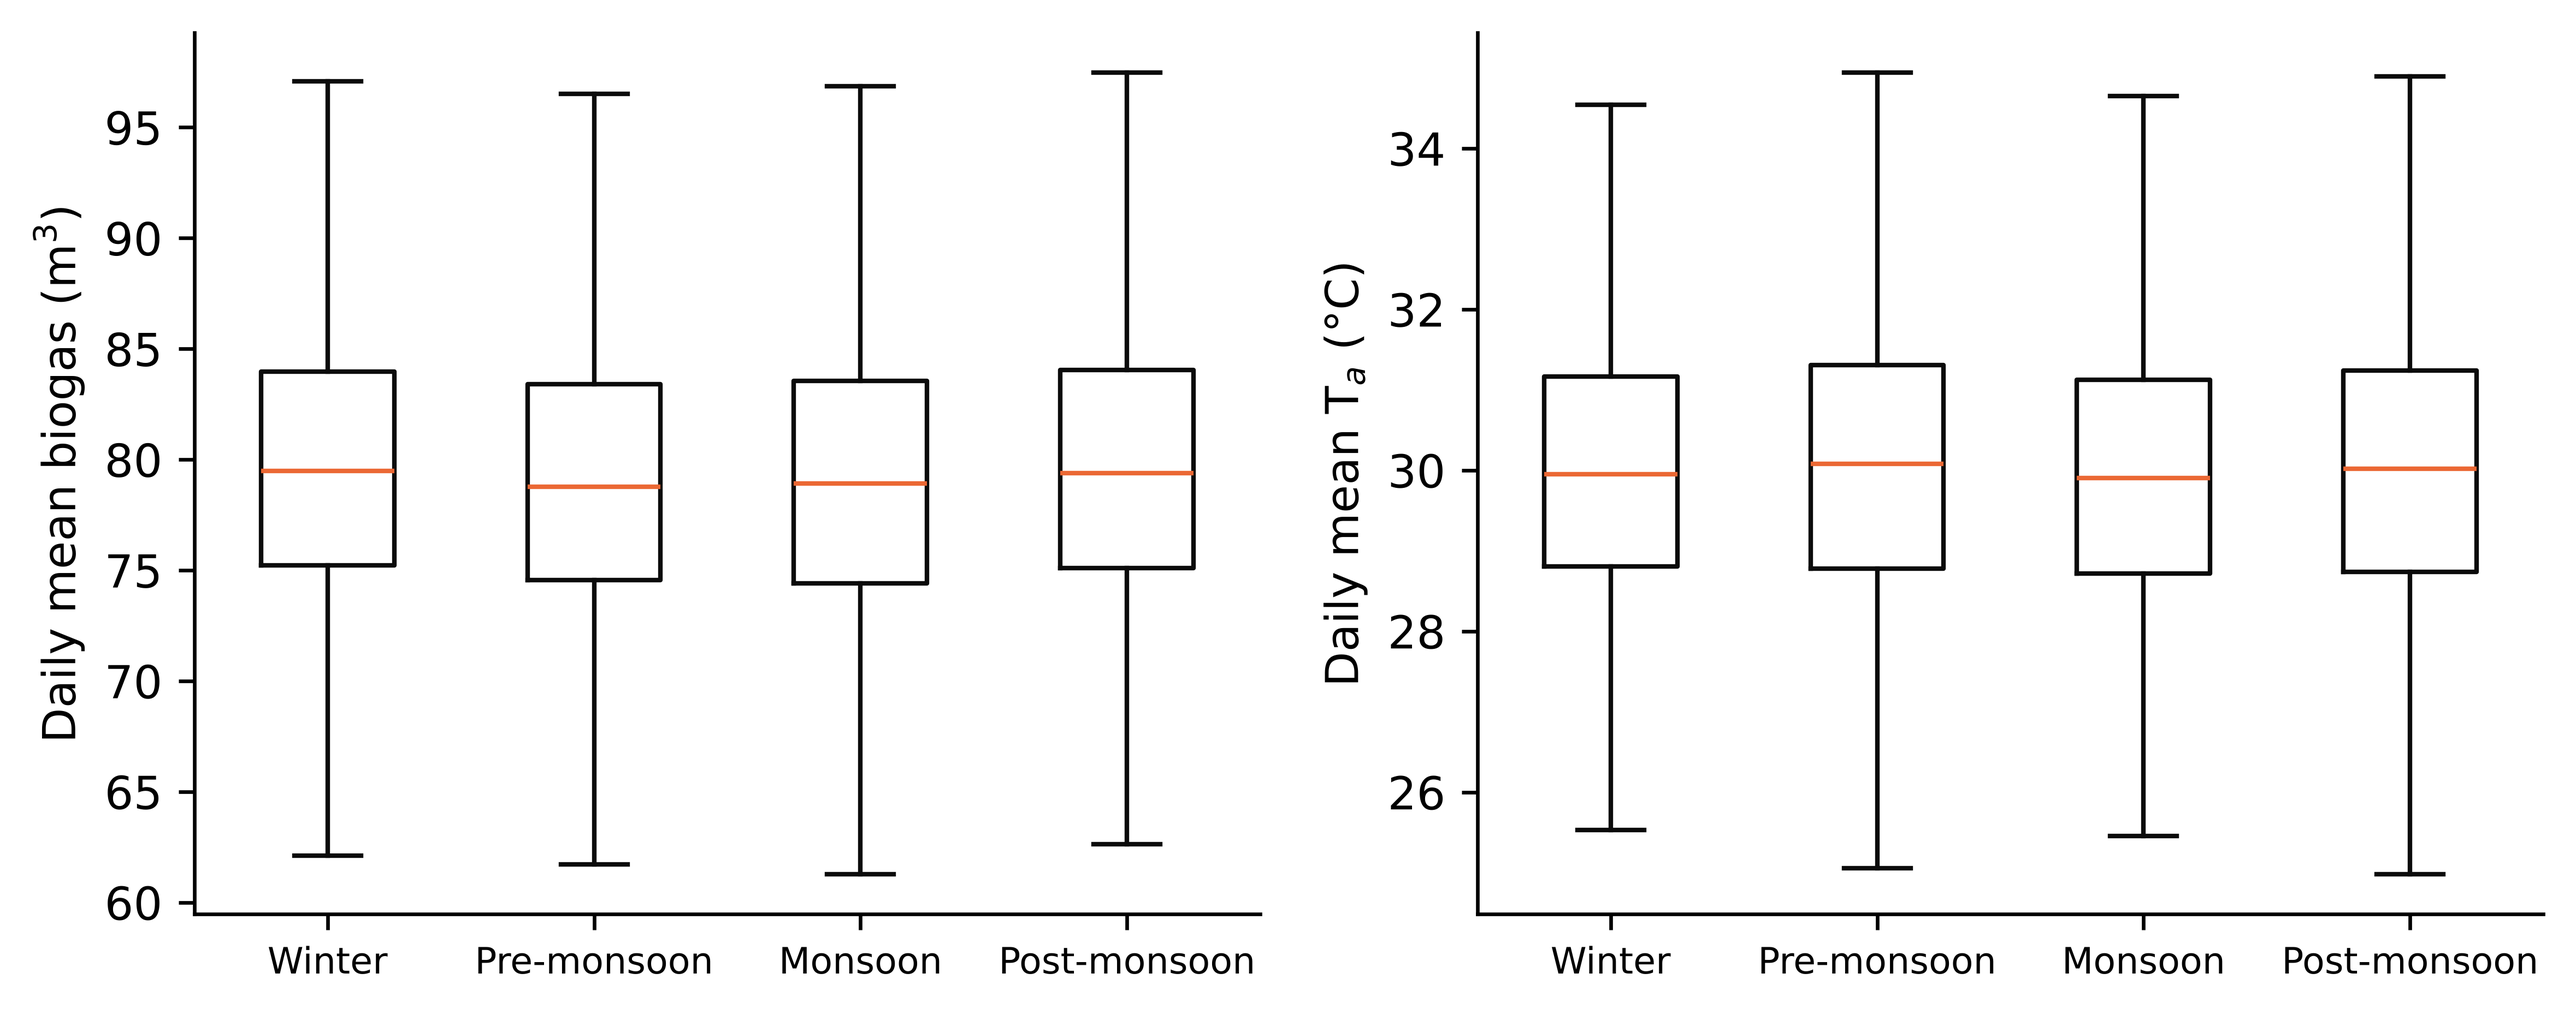
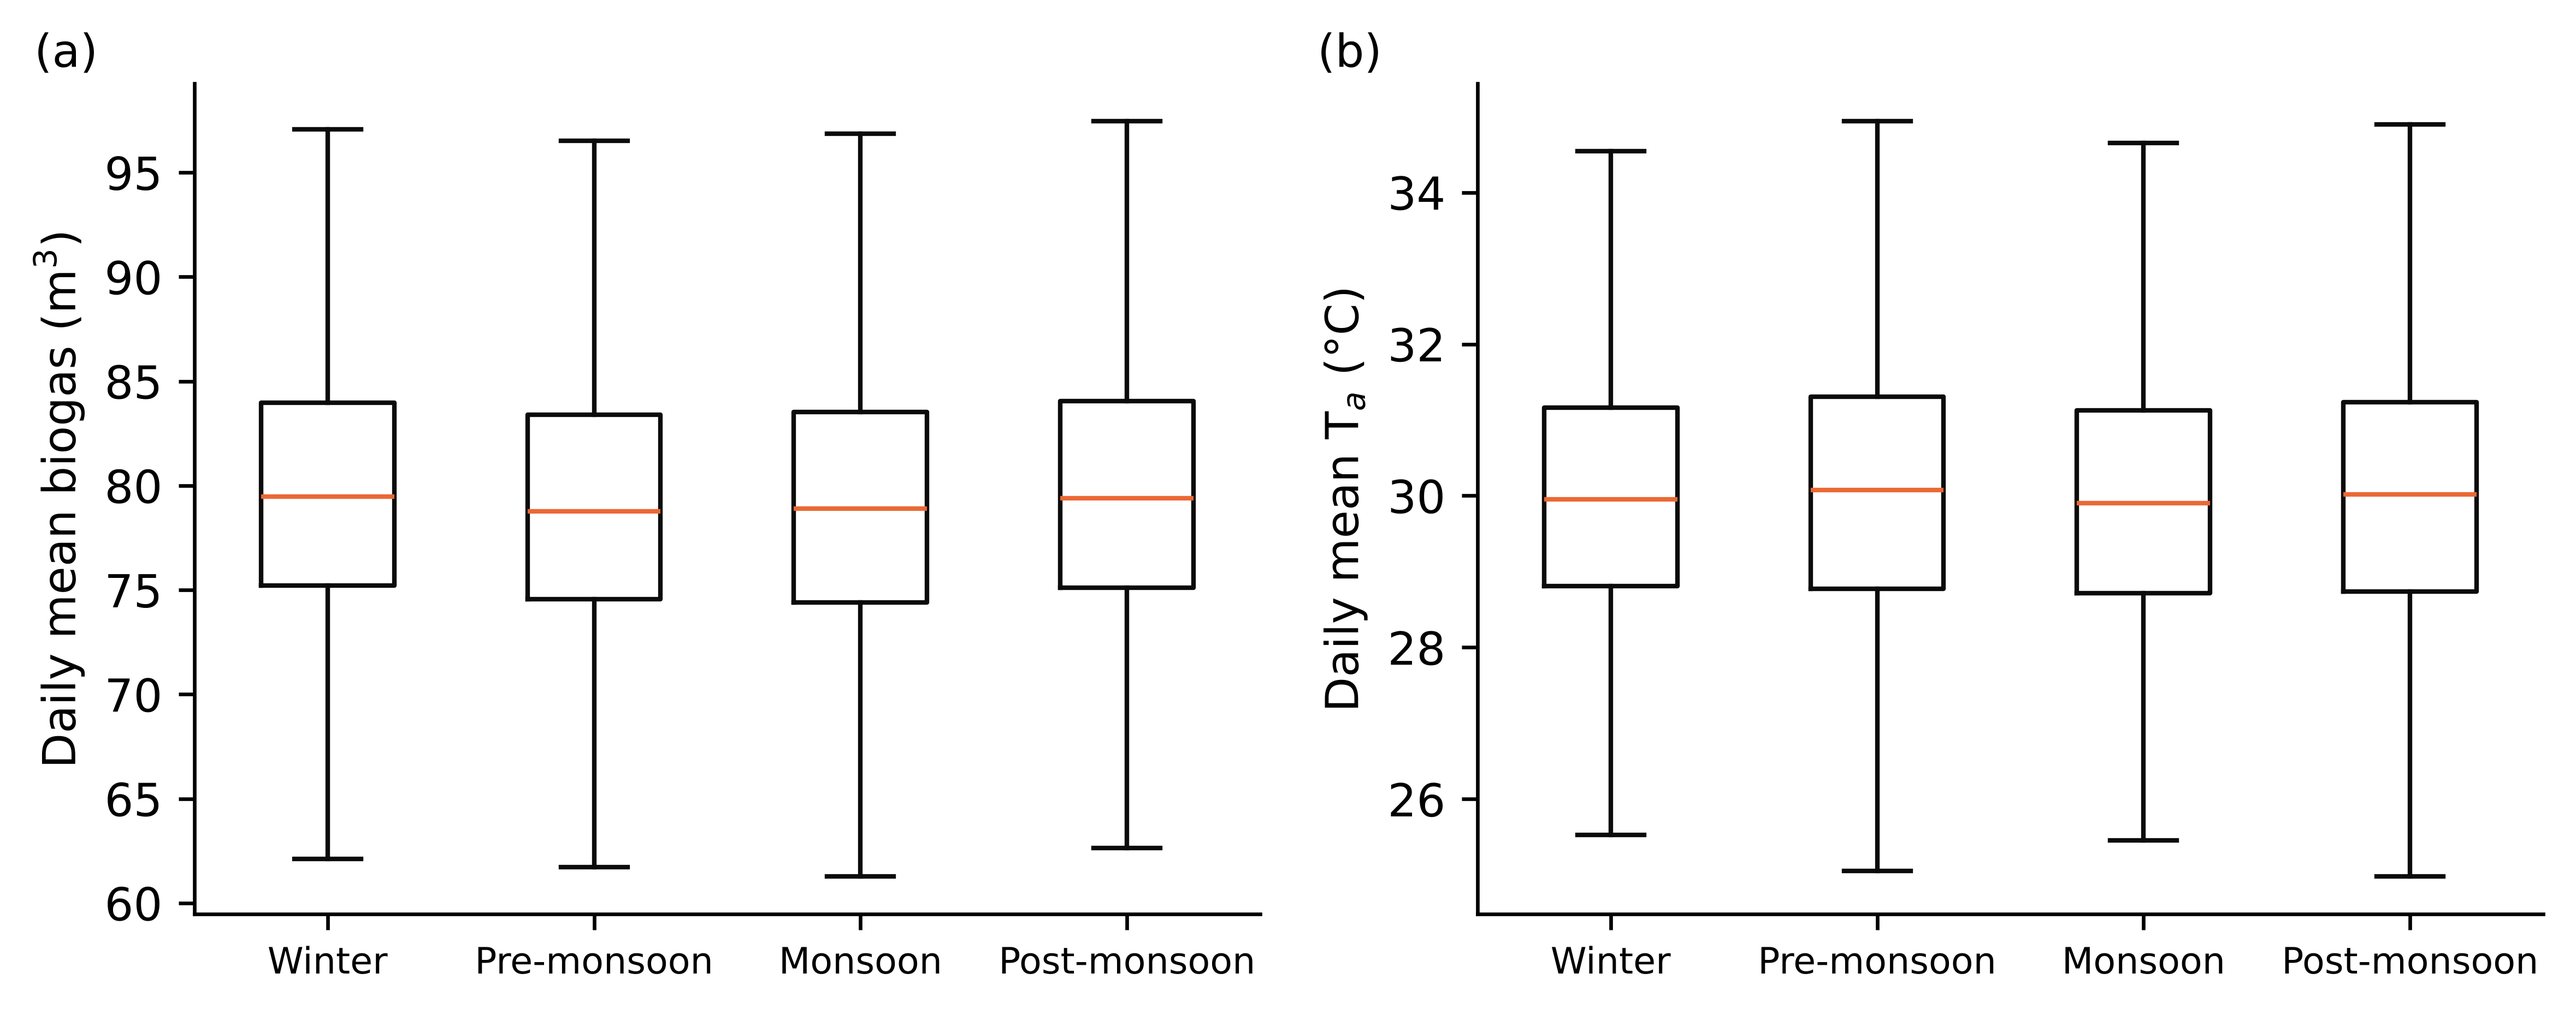
Figure S3: add panel labels
Claude-Session: https://claude.ai/code/session_01KG1uDPRTsDL6mAMr1nmG7x

diff --git a/05_figures.py b/05_figures.py
@@ -136,6 +136,7 @@ for a, v, yl in [(ax[0], 'y', f'Daily mean biogas ({U})'), (ax[1], 'Ta', 'Daily 
     a.boxplot([daily[daily.Season == s][v] for s in order], tick_labels=order, widths=0.5, showfliers=False,
               medianprops=dict(color=ORANGE), boxprops=dict(color=INK), whiskerprops=dict(color=INK), capprops=dict(color=INK))
     a.set_ylabel(yl); a.tick_params(axis='x', labelsize=8)
+for i, a in enumerate(ax): a.text(-0.15, 1.02, f'({"ab"[i]})', transform=a.transAxes)
 fig.tight_layout(); save(fig, 'Figure_S3')
 # S4: CV fold performance per model
 print('figures done')
